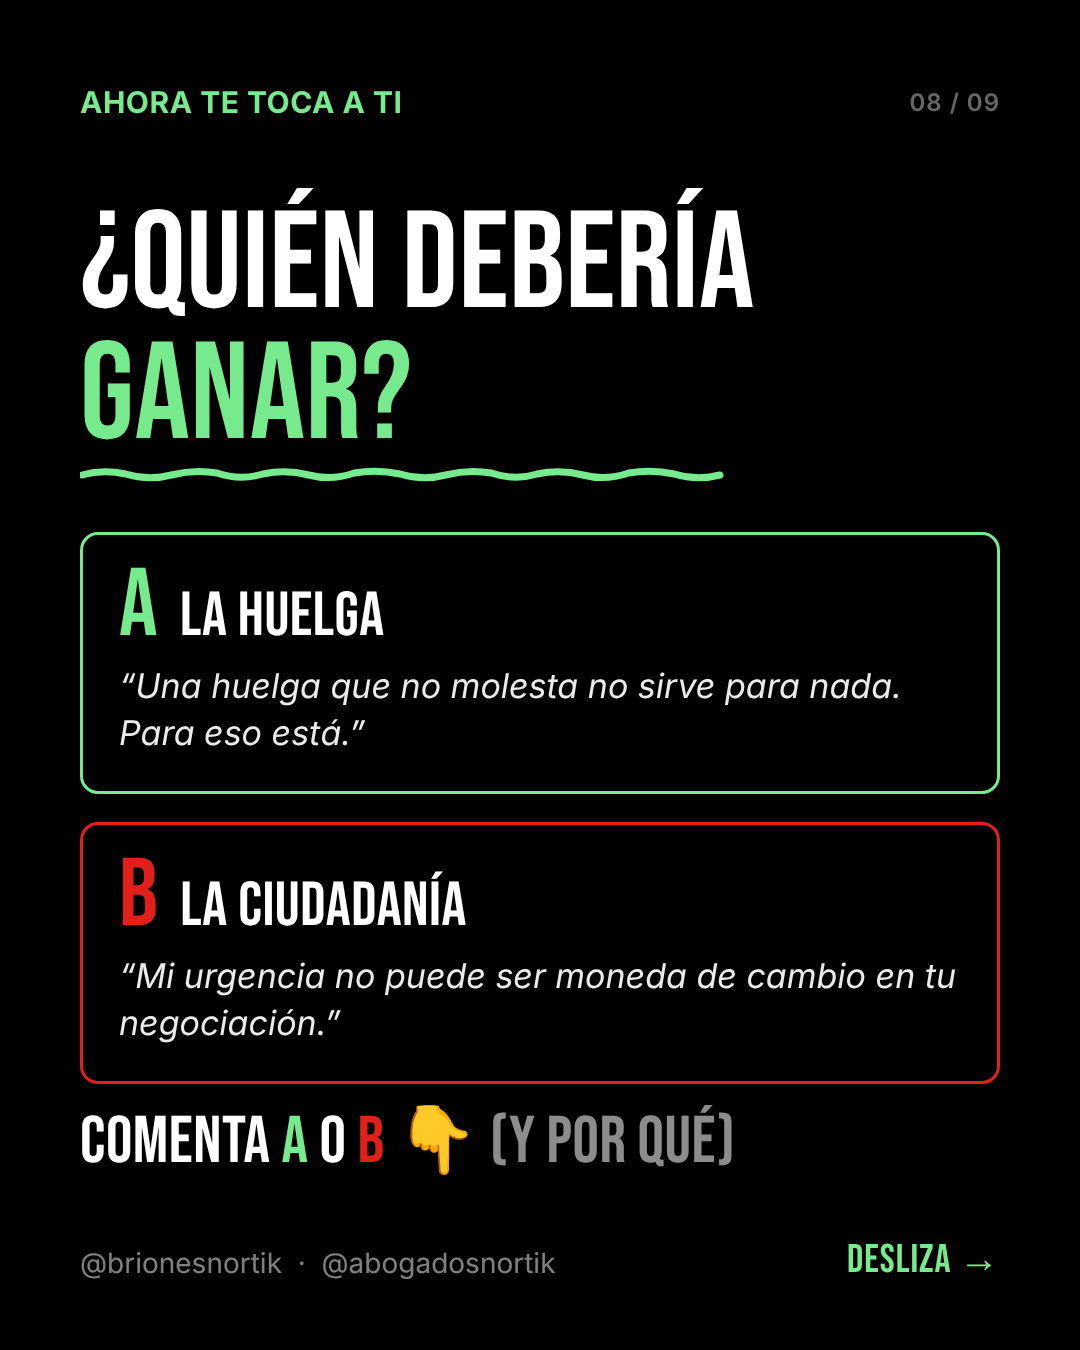
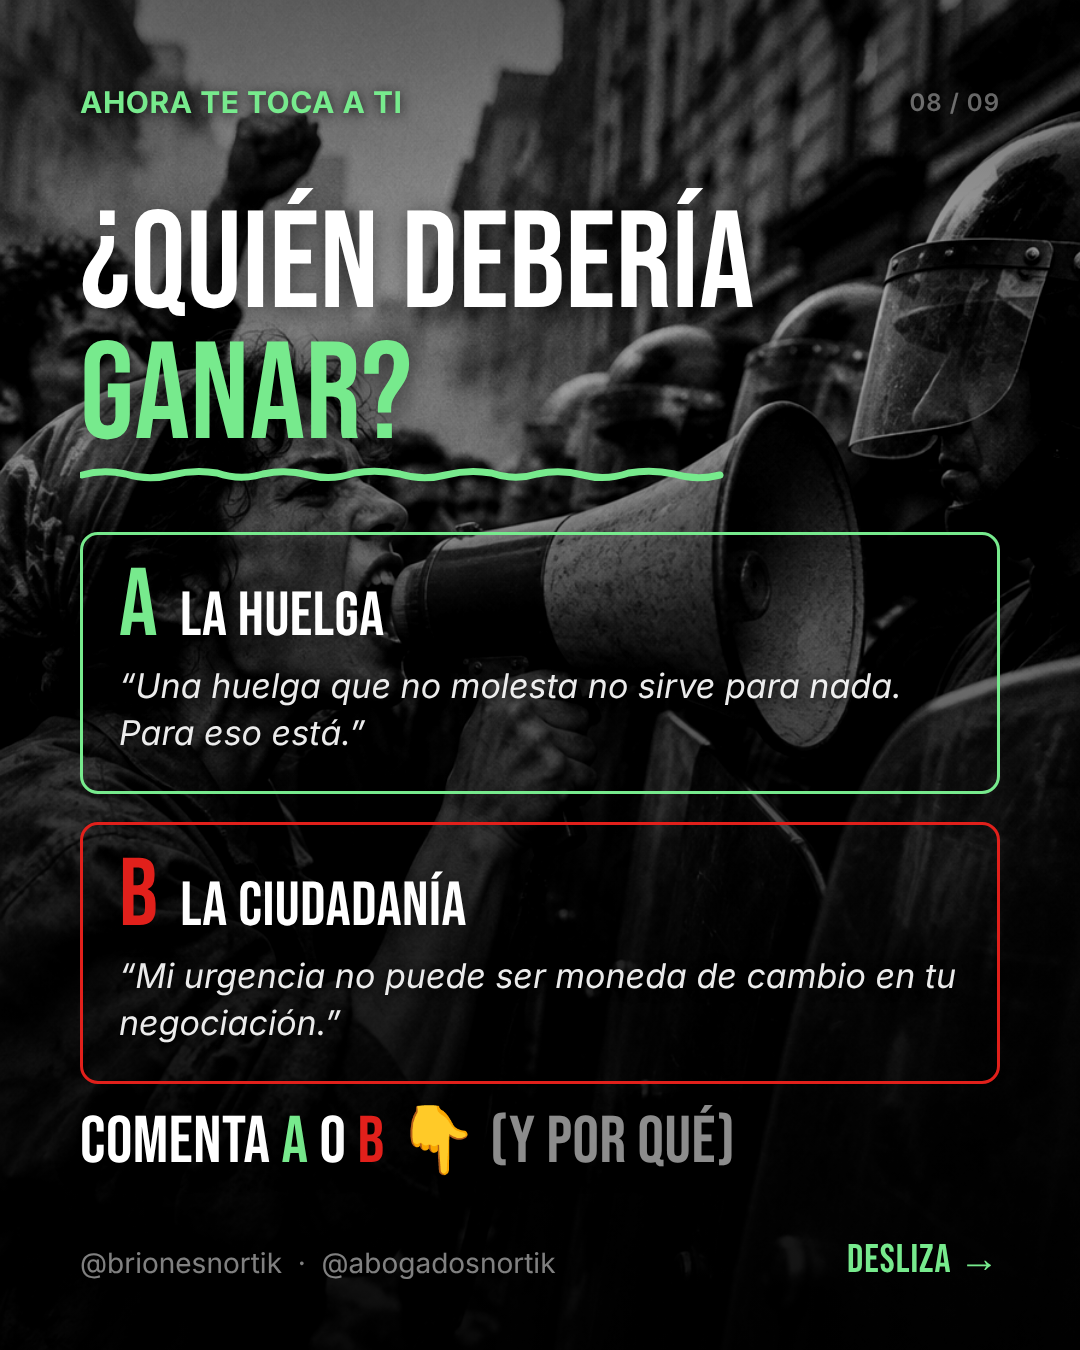
Carrusel choque de derechos: fondos fotográficos en B/N en 6 slides (ambulancia, manifestación, urgencias, andén, mazo, megáfono)
Claude-Session: https://claude.ai/code/session_01FUy9Vwxi67XdPXvEwRFe8W

diff --git a/carousel-choque-derechos/render.js b/carousel-choque-derechos/render.js
@@ -18,10 +18,11 @@ const BASE = `
   @font-face { font-family:'Bebas'; src:url('file://${FONT_FILE}'); }
   * { margin:0; padding:0; box-sizing:border-box; }
   html,body { width:${W}px; height:${H}px; overflow:hidden; font-family:'Inter', Arial, sans-serif; }
-  .stage { position:relative; width:${W}px; height:${H}px; background:${BG}; color:#fff; overflow:hidden; }
+  .stage > * { z-index:1; } .stage { position:relative; width:${W}px; height:${H}px; background:${BG}; color:#fff; overflow:hidden; }
   .label { position:absolute; top:84px; left:80px; color:${GREEN}; font-weight:700; font-size:30px; letter-spacing:0.5px; text-transform:uppercase; }
   .page { position:absolute; top:88px; right:80px; color:rgba(255,255,255,0.4); font-weight:600; font-size:24px; letter-spacing:1px; }
-  .h { font-family:'Bebas', Impact, sans-serif; font-weight:400; text-transform:uppercase; line-height:0.95; letter-spacing:0.5px; }
+  .body, .label { text-shadow:0 2px 12px rgba(0,0,0,0.85); }
+  .h { font-family:'Bebas', Impact, sans-serif; text-shadow:0 4px 24px rgba(0,0,0,0.6); font-weight:400; text-transform:uppercase; line-height:0.95; letter-spacing:0.5px; }
   .g { color:${GREEN}; } .r { color:${RED}; } .w { color:#fff; }
   .body { font-size:38px; line-height:1.38; color:rgba(255,255,255,0.92); font-weight:400; }
   .body b { font-weight:700; color:#fff; }
@@ -43,9 +44,26 @@ function squiggle(width = 780, color = GREEN) {
   return `<svg width="${width + 4}" height="20" style="display:block"><path d="${d}" stroke="${color}" stroke-width="7" fill="none" stroke-linecap="round"/></svg>`;
 }
 
+// Fondos fotográficos en B/N (generados con IA) — solo en 6 slides; el resto, negro liso.
+const PHOTOS = {
+  1: { file: 'bg_ambulancia.png', pos: 'center 40%' },
+  2: { file: 'bg_manifestacion.png', pos: 'center 30%' },
+  3: { file: 'bg_urgencias.png', pos: 'center 30%' },
+  6: { file: 'bg_anden.png', pos: 'center 40%' },
+  7: { file: 'bg_mazo.png', pos: 'center 60%' },
+  8: { file: 'bg_megafono.png', pos: 'center 30%' },
+};
+function photoBg({ file, pos }) {
+  return `<div style="position:absolute; inset:0; z-index:0;">
+    <div style="position:absolute; inset:0; background:url('file://${path.join(__dirname, 'assets', file)}') ${pos} / cover no-repeat; filter:grayscale(100%) contrast(1.15) brightness(0.95);"></div>
+    <div style="position:absolute; inset:0; background:linear-gradient(180deg, rgba(0,0,0,0.6) 0%, rgba(0,0,0,0.3) 22%, rgba(0,0,0,0.5) 46%, rgba(0,0,0,0.82) 72%, rgba(0,0,0,0.95) 100%);"></div>
+  </div>`;
+}
+
 function page(n, label, inner, { bg = BG, swipe = true, extraCss = '' } = {}) {
   return `<html><head><meta charset="utf-8"><style>${BASE}${extraCss}</style></head><body>
   <div class="stage" style="background:${bg}">
+    ${PHOTOS[n] ? photoBg(PHOTOS[n]) : ''}
     <div class="label">${label}</div>
     <div class="page">${String(n).padStart(2, '0')} / ${String(TOTAL).padStart(2, '0')}</div>
     ${inner}
